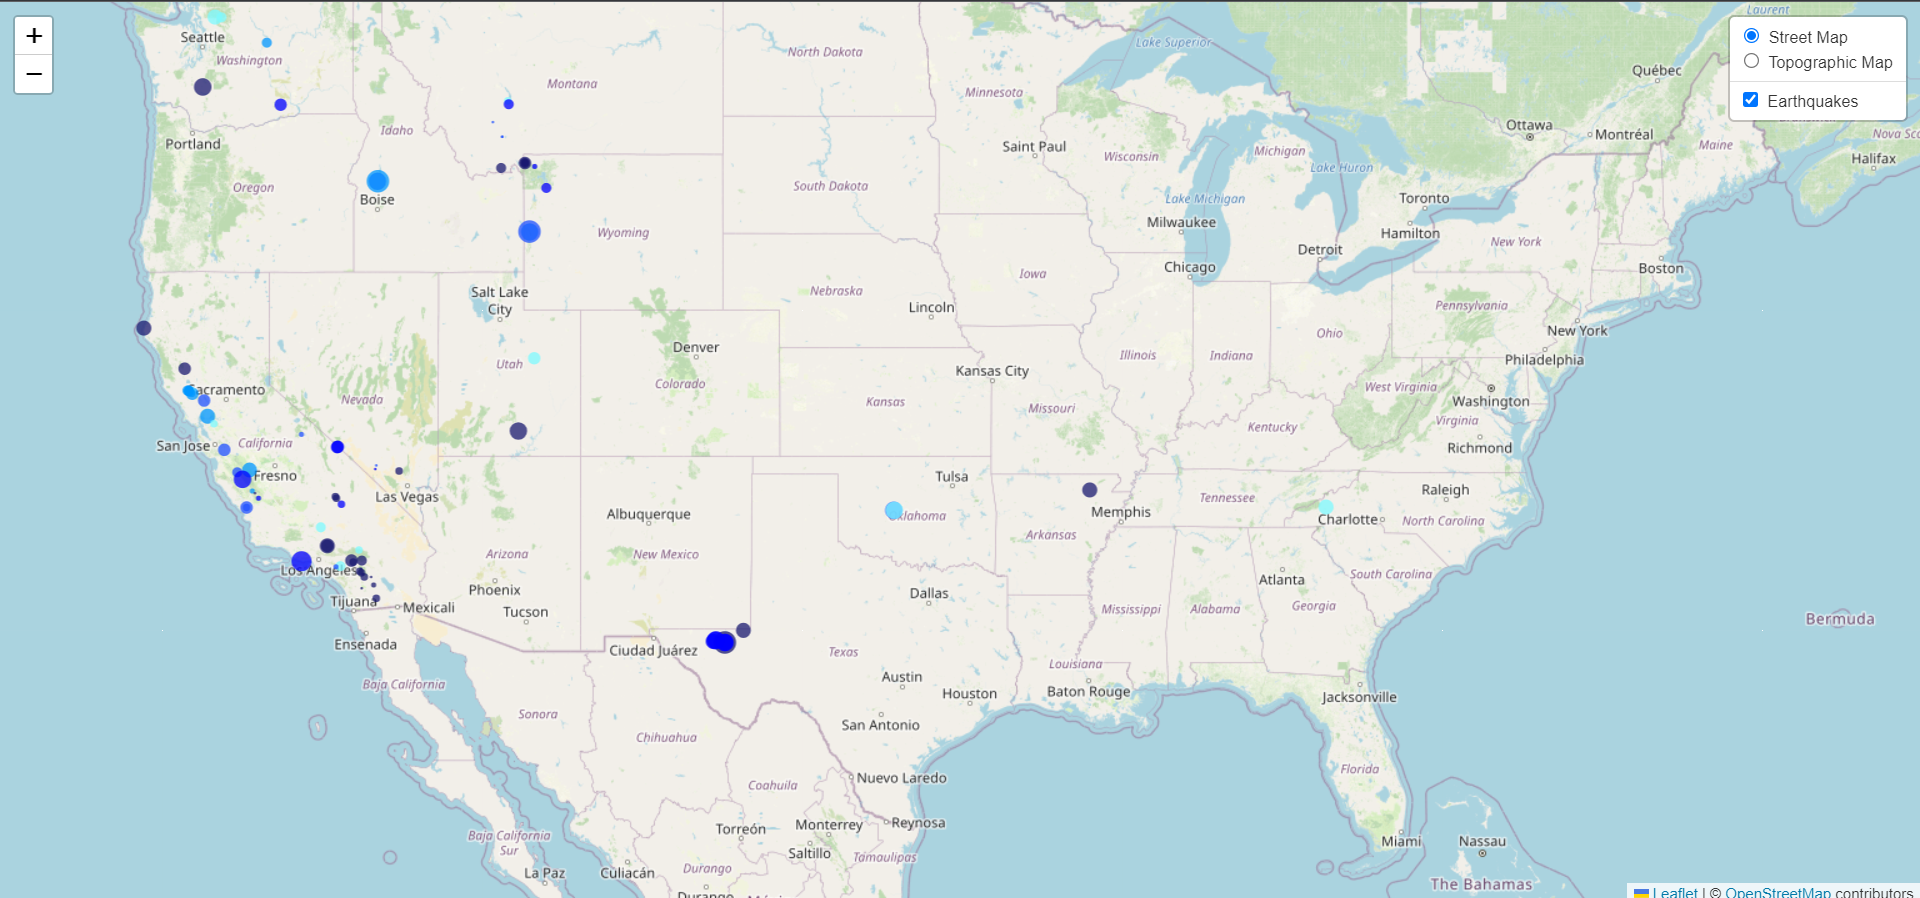
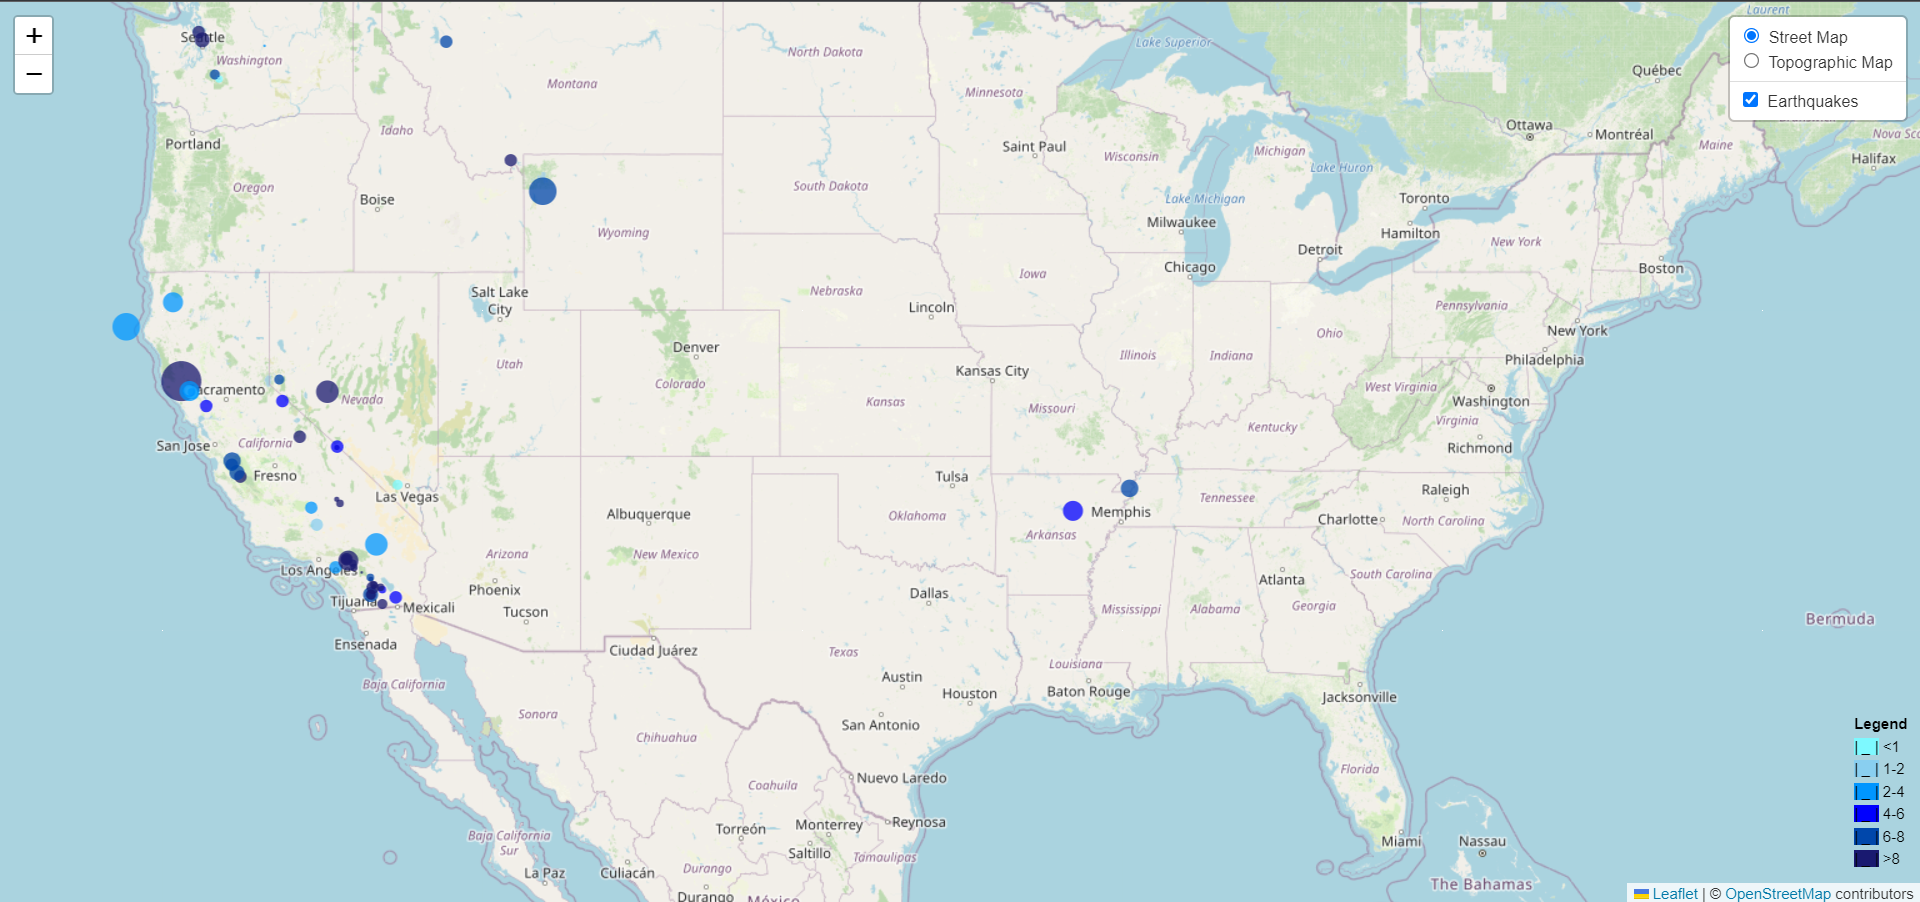
edit README.md;improve legend, colors

diff --git a/static/js/logic.js b/static/js/logic.js
@@ -73,21 +73,23 @@ function createMap(earthquakes) {
     collapsed: false
     }).addTo(myMap);
 
+    // https://gis.stackexchange.com/questions/133630/adding-leaflet-legend
     // https://codepen.io/haakseth/pen/KQbjdO
-    var legend = L.control({ position: "bottomleft" });
-    legend.onAdd = function(myMap) {
-    var div = L.DomUtil.create("div", "legend");
-    div.innerHTML += "<h4>Legend</h4>";
-    div.innerHTML += '<span style="background:rgb(125, 249, 255)">depth&lt;1</span><br>';
-    div.innerHTML += '<span style="background:rgb(0, 150, 255)">1&lt;depth&lt;2</span><br>';
-    div.innerHTML += '<span style="background:rgb(31, 81, 255);color:white">2&lt;depth&lt;4</span><br>';
-    div.innerHTML += '<span style="background:rgb(0, 0, 255);color:white">4&lt;depth&lt;6</span><br>';
-    div.innerHTML += '<span style="background:rgb(0, 71, 171);color:white">6&lt;depth&lt;8</span><br>';
-    div.innerHTML += '<span style="background:rgb(25, 25, 112);color:white">depth&gt;8</span><br>';
+    // https://developer.mozilla.org/en-US/docs/Web/API/Element/innerHTML
+    var legend = L.control({position: 'bottomright'});
+    legend.onAdd = function (myMap) {
 
+    var div = L.DomUtil.create('div', 'info legend');
+    labels = ['<strong>Legend</strong>'],
+        div.innerHTML += labels.push('<i style="background:' + markerColor(0) + '">| _ |</i> &lt;' + 1);
+        div.innerHTML += labels.push('<i style="background:' + markerColor(1) + '">| _ |</i> ' + 1 + '-' + 2);
+        div.innerHTML += labels.push('<i style="background:' + markerColor(2) + '">| _ |</i> ' + 2 + '-' + 4);
+        div.innerHTML += labels.push('<i style="background:' + markerColor(4) + '">| _ |</i> ' + 4 + '-' + 6);
+        div.innerHTML += labels.push('<i style="background:' + markerColor(6) + '">| _ |</i> ' + 6 + '-' + 8);
+        div.innerHTML += labels.push('<i style="background:' + markerColor(9) + '">| _ |</i> &gt;' + 8);
+        div.innerHTML = labels.join('<br>');
     return div;
     };
-
     legend.addTo(myMap);
 }  
 
@@ -101,9 +103,9 @@ function markerColor(depth) {
     if (depth < 1) {// lightest
         return "rgb(125, 249, 255)";
     } else if (depth >= 1 && depth < 2) {
-        return "rgb(0, 150, 255)";
+        return "rgb(137, 207, 240)";
     } else if (depth >= 2 && depth < 4) {
-        return "rgb(31, 81, 255)";
+        return "rgb(0, 150, 255)";
     } else if (depth >= 4 && depth < 6) {
         return "rgb(0, 0, 255)";
     } else if (depth >= 6 && depth < 8) {

diff --git a/README.md b/README.md
@@ -6,7 +6,7 @@ Module 15 Challenge for the Vanderbilt Data Analytics Bootcamp 2023
 
 Shades of blue were taken from [this page](https://htmlcolorcodes.com/colors/shades-of-blue/). 
 
-Legend adapted from [this page](https://codepen.io/haakseth/pen/KQbjdO). 
+Legend adapted from [page1](https://gis.stackexchange.com/questions/133630/adding-leaflet-legend), [page2](https://codepen.io/haakseth/pen/KQbjdO), and [page3](https://developer.mozilla.org/en-US/docs/Web/API/Element/innerHTML). 
 
 # Earthquake Map
 ![map](Images/1.png)
